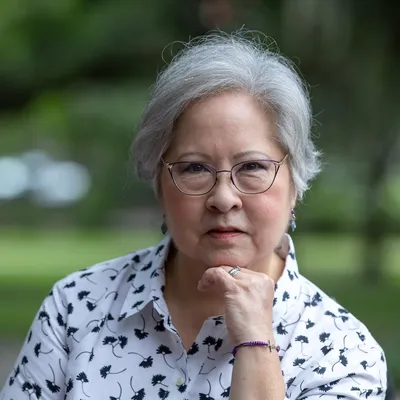
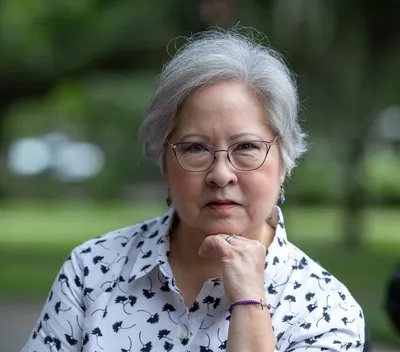
bugfix: Remove square crop to preserve full candidate photos
Resize to fixed width instead of forcing 400x400 square crop, which
was cutting off heads. CSS thumbnails still display as squares via
object-fit:cover with object-position:top; enlarged view shows full photo.

diff --git a/src/style.css b/src/style.css
@@ -56,12 +56,13 @@ body,
   height: 80px;
   border-radius: 4px;
   object-fit: cover;
+  object-position: top;
   cursor: pointer;
 }
 
 .popup-photo.enlarged {
   width: 200px;
-  height: 200px;
+  height: auto;
 }
 
 .popup-divider {
@@ -102,11 +103,12 @@ a.popup-name:hover {
   .popup-photo {
     width: 60px;
     height: 60px;
+    object-position: top;
   }
 
   .popup-photo.enlarged {
     width: 160px;
-    height: 160px;
+    height: auto;
   }
 
   .popup-name {
